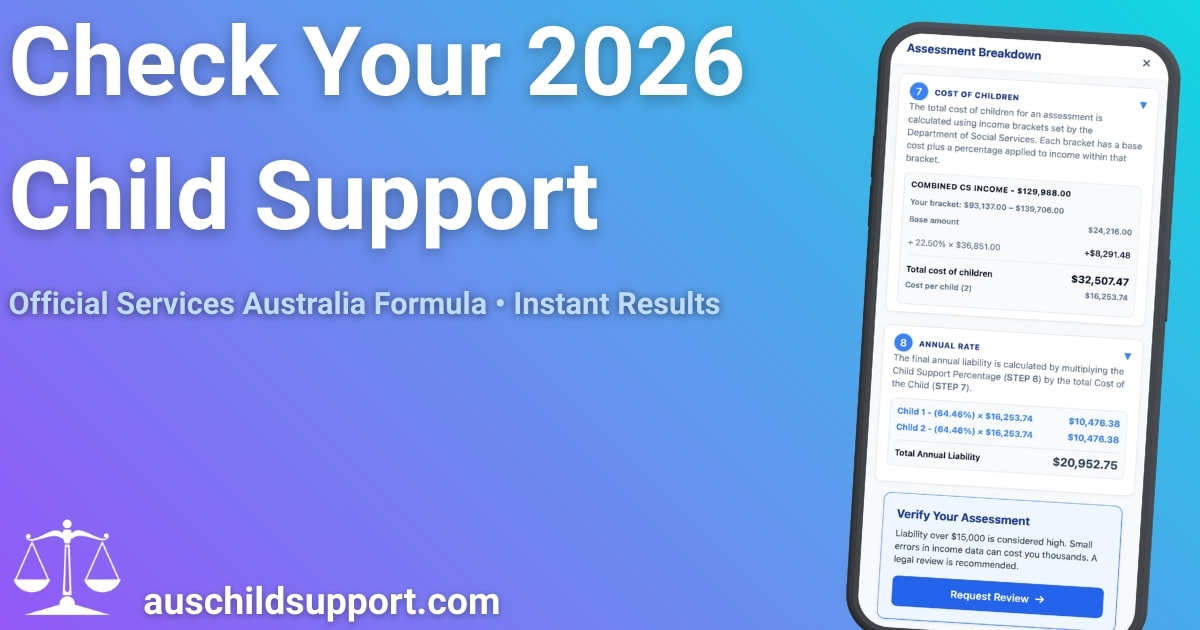
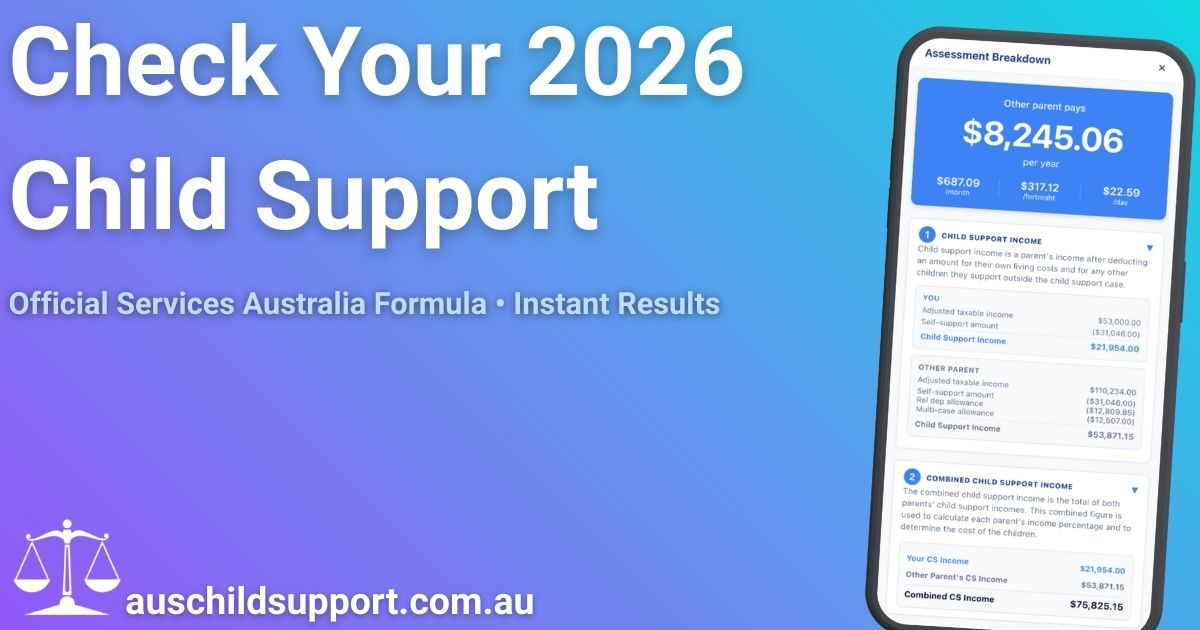
feat(domain): update domain references from .com to .com.au
- Update all references to the website domain from auschildsupport.com to auschildsupport.com.au
- This change ensures consistency across the application and aligns with the new .com.au domain
- Impacts include updated links, PDF footers, environment variables, and documentation

Changed region(s): [[0.6783, 0.0302, 1.0, 1.0], [0.0925, 0.9048, 0.4625, 0.9952]]

diff --git a/public/privacy-policy.html b/public/privacy-policy.html
@@ -112,7 +112,7 @@
       <p class="subtitle">
         <strong>Australian Child Support Calculator</strong>
       </p>
-      <p class="url"><strong>auschildsupport.com</strong></p>
+      <p class="url"><strong>auschildsupport.com.au</strong></p>
       <p class="last-updated"><em>Last updated: December 27, 2024</em></p>
 
       <h2>1. Overview</h2>
@@ -135,8 +135,8 @@
       <h3>Business details</h3>
       <ul>
         <li>Service name: Australian Child Support Calculator</li>
-        <li>Website: https://auschildsupport.com</li>
-        <li>Privacy contact: privacy@auschildsupport.com</li>
+        <li>Website: https://auschildsupport.com.au</li>
+        <li>Privacy contact: privacy@auschildsupport.com.au</li>
       </ul>
 
       <h2>2. What personal information we collect</h2>
@@ -289,7 +289,7 @@
       </ul>
       <p>
         To exercise these rights, contact us at
-        <strong>privacy@auschildsupport.com</strong>.
+        <strong>privacy@auschildsupport.com.au</strong>.
       </p>
       <p>We will respond within a reasonable time, usually within 30 days.</p>
 
@@ -329,8 +329,8 @@
       <div class="contact">
         <p>
           📧
-          <a href="mailto:privacy@auschildsupport.com" class="contact-email"
-            ><strong>privacy@auschildsupport.com</strong></a
+          <a href="mailto:privacy@auschildsupport.com.au" class="contact-email"
+            ><strong>privacy@auschildsupport.com.au</strong></a
           >
         </p>
       </div>
@@ -345,7 +345,7 @@
       <p>We may update this Privacy Policy from time to time.</p>
       <p>
         The latest version will always be available at
-        <strong>auschildsupport.com</strong>.
+        <strong>auschildsupport.com.au</strong>.
       </p>
     </div>
   </body>

diff --git a/src/pages/admin/ProposalsScreen.tsx b/src/pages/admin/ProposalsScreen.tsx
@@ -5,28 +5,28 @@
 
 import { Colors } from '@/constants/theme';
 import {
-  isWeb,
-  MAX_CONTENT_WIDTH,
-  webClickableStyles,
-  webInputStyles,
+    isWeb,
+    MAX_CONTENT_WIDTH,
+    webClickableStyles,
+    webInputStyles,
 } from '@/src/utils/responsive';
 import {
-  getSupabaseClient,
-  type PartnershipProposal,
+    getSupabaseClient,
+    type PartnershipProposal,
 } from '@/src/utils/supabase';
 import { useRouter } from 'expo-router';
 import React, { useCallback, useEffect, useState } from 'react';
 import {
-  ActivityIndicator,
-  Alert,
-  Platform,
-  Pressable,
-  RefreshControl,
-  ScrollView,
-  StyleSheet,
-  Text,
-  TextInput,
-  View,
+    ActivityIndicator,
+    Alert,
+    Platform,
+    Pressable,
+    RefreshControl,
+    ScrollView,
+    StyleSheet,
+    Text,
+    TextInput,
+    View,
 } from 'react-native';
 import { SafeAreaView } from 'react-native-safe-area-context';
 
@@ -182,7 +182,7 @@ export default function ProposalsScreen() {
 
   const handleCopyLink = async (slug: string) => {
     const baseUrl =
-      process.env.EXPO_PUBLIC_SITE_URL || 'https://auschildsupport.com';
+      process.env.EXPO_PUBLIC_SITE_URL || 'https://auschildsupport.com.au';
     const link = `${baseUrl}/partner/${slug}`;
 
     try {

diff --git a/app/about.tsx b/app/about.tsx
@@ -16,7 +16,7 @@ const aboutSchema = {
     mainEntity: {
         '@type': 'Organization',
         name: 'AusChildSupport',
-        url: 'https://auschildsupport.com',
+        url: 'https://auschildsupport.com.au',
         description: 'Free Australian child support calculator using official Services Australia formulas.',
         foundingDate: '2024',
         areaServed: {
@@ -123,7 +123,7 @@ export default function AboutPage() {
                         <View style={styles.buttonRow}>
                             <Pressable
                                 style={[styles.primaryButton, isWeb && webClickableStyles]}
-                                onPress={() => Linking.openURL('https://blog.auschildsupport.com')}
+                                onPress={() => Linking.openURL('https://blog.auschildsupport.com.au')}
                                 accessibilityRole="button"
                                 accessibilityLabel="Visit our blog"
                             >

diff --git a/src/utils/exportLeadPDF.ts b/src/utils/exportLeadPDF.ts
@@ -460,7 +460,7 @@ function generateLeadHTML(lead: LeadSubmission, userId: string = 'system'): stri
             Australian Child Support Calculator
           </p>
           <p style="color: #6b7280; font-size: 12px;">
-            <a href="https://auschildsupport.com" style="color: #2563eb; text-decoration: none;">auschildsupport.com</a>
+            <a href="https://auschildsupport.com.au" style="color: #2563eb; text-decoration: none;">auschildsupport.com.au</a>
           </p>
           <p style="color: #d1d5db; font-size: 11px; margin-top: 8px;">
             This document is confidential and intended for authorized recipients only.

diff --git a/src/components/pdf/AssessmentPDFDocument.tsx b/src/components/pdf/AssessmentPDFDocument.tsx
@@ -502,7 +502,7 @@ export function AssessmentPDFDocument({
             </View>
             <View style={styles.footerRight}>
               <Text style={styles.footerBrand}>Aus Child Support Calculator</Text>
-              <Text style={styles.footerUrl}>auschildsupport.com</Text>
+              <Text style={styles.footerUrl}>auschildsupport.com.au</Text>
               <Text
                 style={styles.pageNumber}
                 render={({ pageNumber, totalPages }: { pageNumber: number; totalPages: number }) => `Page ${pageNumber} of ${totalPages}`}

diff --git a/app/+html.tsx b/app/+html.tsx
@@ -58,14 +58,6 @@ export default function Root({ children }: PropsWithChildren) {
           href="/favicon-rounded-white-bg.png?v=4"
         />
 
-        {/* CRITICAL: Preload hero logo for faster LCP */}
-        <link
-          rel="preload"
-          as="image"
-          href="/assets/images/webp/aus-child-support-logo-header-transparent.webp"
-          type="image/webp"
-        />
-
         {/* CRITICAL CSS: Inline styles for above-the-fold content */}
         <style
           dangerouslySetInnerHTML={{

diff --git a/src/components/CareCalendar.tsx b/src/components/CareCalendar.tsx
@@ -568,7 +568,7 @@ export function generateCalendarHTML(
       </div>
     `;
   }).join('')}
-  <div class="footer">This is an estimate based on the interpreted court order. For official assessments, contact Services Australia.<br>auschildsupport.com</div>
+  <div class="footer">This is an estimate based on the interpreted court order. For official assessments, contact Services Australia.<br>auschildsupport.com.au</div>
 </body>
 </html>`;
 }

diff --git a/src/components/PrivacyPolicyLink.tsx b/src/components/PrivacyPolicyLink.tsx
@@ -37,7 +37,7 @@ export function PrivacyPolicyLink({
   // Platform-aware URL: use relative path on web, absolute on native
   const privacyUrl = url || (isWeb
     ? '/privacy-policy.html'
-    : 'https://auschildsupport.com/privacy-policy.html');
+    : 'https://auschildsupport.com.au/privacy-policy.html');
 
   const webClickableStyles = isWeb
     ? {

diff --git a/src/pages/admin/LeadDetailScreen.tsx b/src/pages/admin/LeadDetailScreen.tsx
@@ -174,7 +174,7 @@ Lead ID: #${lead.id?.slice(0, 8)}
 
 ---
 Australian Child Support Calculator
-auschildsupport.com`;
+auschildsupport.com.au`;
 
     if (Platform.OS === 'web') {
       // Web: Use Clipboard API

diff --git a/docs/DOMAIN_UPDATE_CHECKLIST.md b/docs/DOMAIN_UPDATE_CHECKLIST.md
@@ -1,0 +1,169 @@
+# Domain Update Checklist - .com to .com.au Migration
+
+## ✅ Completed Updates
+
+### Code Files
+- ✅ `src/components/CareCalendar.tsx` - Footer URL
+- ✅ `src/components/pdf/AssessmentPDFDocument.tsx` - PDF footer
+- ✅ `src/utils/exportLeadPDF.ts` - Lead PDF footer
+- ✅ `src/components/PrivacyPolicyLink.tsx` - Privacy policy link
+- ✅ `src/pages/admin/ProposalsScreen.tsx` - Partner link generation
+- ✅ `src/pages/admin/LeadDetailScreen.tsx` - Email signature
+- ✅ `app/about.tsx` - Schema.org URL + blog link
+- ✅ `public/privacy-policy.html` - All domain references
+- ✅ `scripts/generate-sitemap.cjs` - Sitemap generator
+- ✅ `public/sitemap.xml` - Already updated
+- ✅ `.env.example` - Example environment variables
+
+### Configuration
+- ✅ Vercel DNS configured
+- ✅ VentraIP DNS configured
+- ✅ Vercel domain added
+
+---
+
+## ⚠ Manual Updates Required
+
+### 1. Environment Variables (.env file)
+
+**You need to update your actual `.env` file** (not tracked in git):
+
+```bash
+# Update these in your .env file:
+EXPO_PUBLIC_SITE_URL=https://auschildsupport.com.au
+EXPO_PUBLIC_ADMIN_EMAIL=alex@auschildsupport.com.au
+```
+
+### 2. Documentation Files (Optional - for reference only)
+
+These files are documentation and don't affect the live site:
+- `docs/CLAUDE.md` - Multiple references (informational only)
+- `docs/PROJECT_KNOWLEDGE_BASE.md` - References (informational only)
+- `docs/DESIGN_SYSTEM.md` - References (informational only)
+- `docs/README.md` - References (informational only)
+- `docs/business-docs/BUSINESS_MODEL.md` - Business docs (informational only)
+- `.kiro/steering/product.md` - Steering file (informational only)
+- `.kiro/steering/tech.md` - Steering file (informational only)
+- `README.md` - Project readme (informational only)
+
+**You can update these later** - they're just documentation for developers.
+
+### 3. Admin Login Comment
+
+In `src/pages/admin/AdminLoginScreen.tsx`, there's a comment:
+```typescript
+/**
+ * Admin Login Screen
+ * Simple email/password authentication for alex@auschildsupport.com
+ * Uses Supabase Auth with RLS policies
+ */
+```
+
+This is just a comment - update it if you want, but it doesn't affect functionality.
+
+### 4. Supabase Configuration
+
+**Important:** Update Supabase allowed origins:
+
+1. Go to [Supabase Dashboard](https://supabase.com/dashboard)
+2. Select your project
+3. Go to **Settings** → **API**
+4. Under **Site URL**, update to: `https://auschildsupport.com.au`
+5. Under **Redirect URLs**, add:
+   - `https://auschildsupport.com.au/**`
+   - `https://www.auschildsupport.com.au/**`
+
+### 5. Google Analytics (if needed)
+
+If you want to track both domains separately:
+1. Go to [Google Analytics](https://analytics.google.com/)
+2. Add `.com.au` as a new property
+3. Update `EXPO_PUBLIC_GA_MEASUREMENT_ID` in `.env` if needed
+
+Or keep the same GA property to track both domains together.
+
+### 6. Vercel Environment Variables
+
+Update in Vercel dashboard:
+1. Go to your project → **Settings** → **Environment Variables**
+2. Update `EXPO_PUBLIC_SITE_URL` to: `https://auschildsupport.com.au`
+3. Update `EXPO_PUBLIC_ADMIN_EMAIL` to: `alex@auschildsupport.com.au` (if set)
+
+---
+
+## 🚀 Deployment Steps
+
+After updating `.env`:
+
+1. **Rebuild and deploy:**
+   ```bash
+   npm run build:web
+   ```
+
+2. **Commit changes:**
+   ```bash
+   git add .
+   git commit -m "Update domain references from .com to .com.au"
+   git push
+   ```
+
+3. **Vercel will auto-deploy** (if connected to git)
+
+4. **Test the live site:**
+   - Visit `https://auschildsupport.com.au`
+   - Test calculator functionality
+   - Test lawyer inquiry form
+   - Check PDF exports
+   - Verify privacy policy links
+
+---
+
+## 📋 Testing Checklist
+
+After deployment:
+
+- [ ] Main site loads at `auschildsupport.com.au`
+- [ ] www subdomain works
+- [ ] Blog subdomain works (if configured)
+- [ ] SSL certificates are valid (green padlock)
+- [ ] Calculator functions correctly
+- [ ] Lawyer inquiry form submits successfully
+- [ ] PDF exports show correct domain
+- [ ] Privacy policy links work
+- [ ] Admin panel accessible
+- [ ] Email forwarding works (if configured)
+- [ ] Google Analytics tracking (check Real-Time reports)
+
+---
+
+## 🔄 Optional: Redirect .com to .com.au
+
+If you want to redirect the old domain:
+
+**In Namecheap (for auschildsupport.com):**
+1. Go to **Advanced DNS**
+2. Add URL Redirect records:
+   ```
+   Type: URL Redirect Record
+   Host: @
+   Value: https://auschildsupport.com.au
+   Redirect Type: Permanent (301)
+   
+   Type: URL Redirect Record
+   Host: www
+   Value: https://www.auschildsupport.com.au
+   Redirect Type: Permanent (301)
+   ```
+
+This ensures anyone visiting the old .com domain gets redirected to .com.au.
+
+---
+
+## 📝 Notes
+
+- Keep both domain registrations active (don't let .com expire)
+- Monitor analytics for traffic patterns
+- Update social media profiles with new domain
+- Update email signatures
+- Update business cards/marketing materials
+- Consider updating Google Search Console with new property
